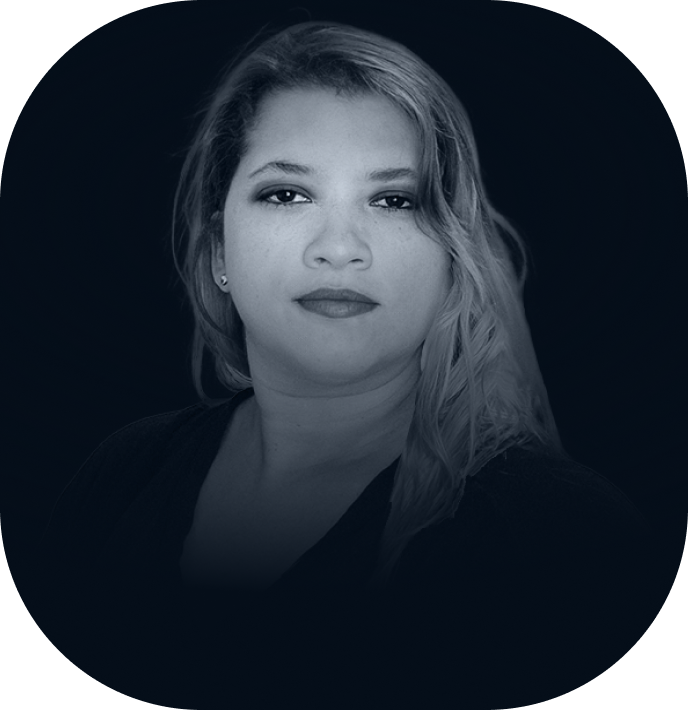
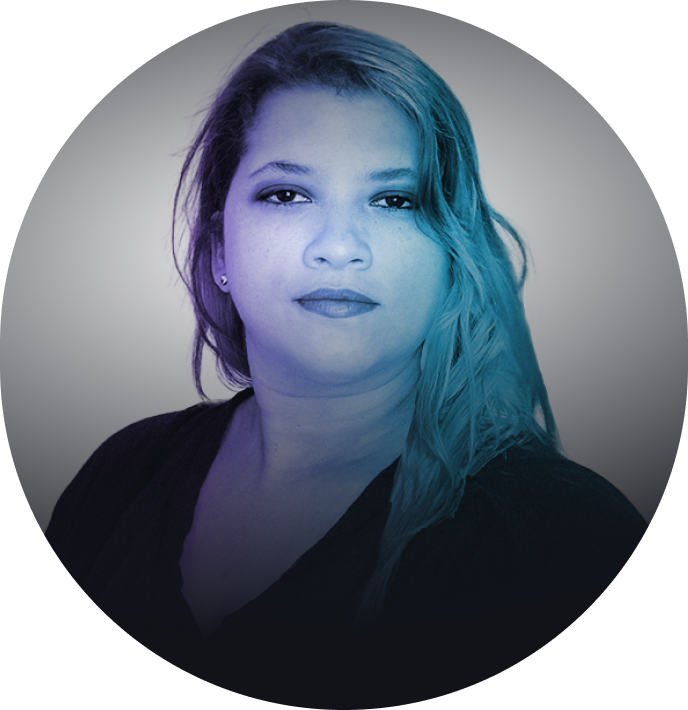
fix style and change font

diff --git a/src/components/HeroSection/styles.js b/src/components/HeroSection/styles.js
@@ -1,38 +1,35 @@
 // ProfileSection.styles.js
-import styled, {css} from 'styled-components';
+import styled, { css } from "styled-components";
 
 export const Container = styled.div`
-
-
-text-align: center;
+  text-align: center;
   color: #fff;
-  background-color: #050E19;
+  background-color: transparent;
   padding: 0 16px;
   position: relative;
- 
+
   border-radius: 0 0 60px 60px;
   display: flex;
 
-  min-height: 580px;
+
   height: auto;
-  max-height: 792px;
+  max-height: 690px;
 
   @media (min-width: 768px) {
-    height: 90vh;
+    max-height: 80vh;
   }
-
 `;
 
 export const Content = styled.div`
-max-width: 988px;
+  max-width: 988px;
 
   margin: auto;
   justify-content: center;
-  align-items: center;
+  align-items: normal;
   padding: 50px 0;
 `;
 export const Section = styled.div`
- padding: 15px 0;
+  padding: 15px 0;
 `;
 export const SectionDev = styled.div`
   flex: 1;
@@ -43,13 +40,14 @@ export const SectionUX = styled.div`
   text-align: right;
 `;
 
-
 export const Title = styled.h1`
-
-font-size: clamp(48px, 5vw + 1rem, 128px);
-font-weight: 600;
+  font-size: clamp(48px, 5vw + 1rem, 128px);
+  font-weight: 600;
   margin: 0;
-
+  background: linear-gradient(268deg, #24A1CA 2.38%, #8764D4 98.75%);
+background-clip: text;
+-webkit-background-clip: text;
+-webkit-text-fill-color: transparent;
 `;
 
 export const Subtitle = styled.p`
@@ -64,22 +62,19 @@ export const SkillsList = styled.ul`
   padding: 0;
   color: #888;
   font-size: 1em;
-
-
 `;
 
 export const ProfileImage = styled.img`
-  width: 240px;
+  max-width: 240px;
   height: auto;
   border-radius: 10%;
-margin: 0 auto;
+  margin: 0 auto;
   margin-bottom: 20px;
 
   @media (min-width: 768px) {
     width: 280px;
-  height: auto;
+    height: auto;
   }
-
 `;
 
 export const SocialIcons = styled.div`
@@ -89,15 +84,13 @@ export const SocialIcons = styled.div`
   margin-top: 20px;
 
   .icon-gh {
+    font-size: 2em;
 
-font-size: 2em;
-
-border-radius: 20px;
-color: #fff;
-cursor: pointer;
-}
+    border-radius: 20px;
+    color: #fff;
+    cursor: pointer;
+  }
   .icon {
-
     font-size: 2em;
     padding: 7px 0;
     border-radius: 16px;
@@ -108,9 +101,8 @@ cursor: pointer;
 
 export const Description = styled.p`
   margin-top: 20px;
-  color: #555;
+  color: #999;
   max-width: 400px;
   font-size: 0.9em;
   line-height: 1.4;
 `;
-

diff --git a/src/index.css b/src/index.css
@@ -3,12 +3,24 @@
 @tailwind components;
 @tailwind utilities;
 
-@import url('https://fonts.googleapis.com/css2?family=Birthstone&family=Nunito:ital,wght@0,200..1000;1,200..1000&display=swap');
+
+@import url('https://fonts.googleapis.com/css2?family=Birthstone&family=Nunito:ital,wght@0,200..1000;1,200..1000&family=Poppins:ital,wght@0,100;0,200;0,300;0,400;0,500;0,600;0,700;0,800;0,900;1,100;1,200;1,300;1,400;1,500;1,600;1,700;1,800;1,900&display=swap');
+
+/* styles.css */
+:root {
+  --primary-color: #24A1CA;
+  --secondary-color: #FF6347;
+  --accent-color: #FFD700;
+  --background-color: #F0F8FF;
+  /* Adicione mais cores conforme necessário */
+}
+
+
 body {
   margin: 0;
-  font-family: "Nunito", sans-serif !important;
+  font-family: "Poppins", sans-serif !important;
   font-optical-sizing: auto;
-  background-color: #F2FBFF;
+  background-color: #111319;
 }
 
 h1 {
@@ -30,5 +42,58 @@ code {
 }
 
 
+.btn-pv{
+  padding: 1rem;
+  color:#fff;
+  font-size:18px;
+  background-color: #24A1CA;
+  border-radius: .4rem;
+display: flex;
+text-align: center;
+justify-content: center;
+max-width: 180px;
+   background: linear-gradient(90deg, #8764D4  20%, #22a9d6 90%); 
+  margin:2rem auto;
+ 
+  transition: all 2s linear 1s;
+}
 
+.btn-pv:hover{
+  transition: all 4s linear 5s;
+  animation: bg-pan-left 2s linear infinite alternate both;
+}
 
+.bg-pan-left {
+	-webkit-animation: bg-pan-left 8s both;
+	        animation: bg-pan-left 8s both;
+}
+
+/* ----------------------------------------------
+ * Generated by Animista on 2024-11-15 19:46:46
+ * Licensed under FreeBSD License.
+ * See http://animista.net/license for more info. 
+ * w: http://animista.net, t: @cssanimista
+ * ---------------------------------------------- */
+
+/**
+ * ----------------------------------------
+ * animation bg-pan-left
+ * ----------------------------------------
+ */
+ @-webkit-keyframes bg-pan-left {
+  0% {
+    background:  #8764D4  ;
+  }
+  100% {
+    background:  #22a9d6 ;
+  }
+}
+@keyframes bg-pan-left {
+  0% {
+    background:  #22a9d6 ;
+  }  
+
+  100% {
+    background:  #8764D4  ;
+  }
+}

diff --git a/src/components/Card/styles.js b/src/components/Card/styles.js
@@ -2,17 +2,23 @@
 import styled from 'styled-components';
 
 export const CardContainer = styled.div`
-  background-color: #fff;
+  /* background-color: transparent; */
   position: relative;
-  border-radius: 2rem;
+
   padding: 15px;
   text-align: center;
-  border: 1px solid #C4CFE050;
+  /* border: 1px solid; */
+  /* border-image-slice: 1;
+  border-image-source: linear-gradient(268deg, #24A1CA 2.38%, #8764D4 98.75%); */
   /* box-shadow: 0 4px 8px rgba(0, 0, 0, 0.1); */
+ 
+
+  background: linear-gradient(#111319, #111319) padding-box,
+              linear-gradient(to right,  #8764D4 , #24A1CA ) border-box;
+  border-radius: 0.5rem;
+  border: 1px solid transparent;
+
   transition: transform 0.2s;
-  /* flex: 1; */
-
-
   &:hover {
     transform: scale(1.05);
   }
@@ -22,6 +28,8 @@ export const CardContainer = styled.div`
  opacity: 0.8;
   padding: 15px;
   text-align: center;
+  background: linear-gradient(#111319, #111319) padding-box,
+  linear-gradient(to right,  #000 , #555 ) border-box;
   border: 1px solid #C4CFE050;
   /* box-shadow: 0 4px 8px rgba(0, 0, 0, 0.1); */
   transition: transform 0.2s;
@@ -34,7 +42,7 @@ export const CardImageContainer = styled.div`
   width: 100%;
   height: 200px;
   position: relative;
-  border-radius: 1.2rem;
+  border-radius: 0.2rem;
   overflow: hidden;
 
   &.isComming::after {
@@ -57,7 +65,7 @@ export const CardImage = styled.img`
   height: 200px;
   object-fit: cover;
   object-position: top center;
-  border-radius: 1.2rem;
+  border-radius: 0.2rem;
   
   position: relative;
 
@@ -65,9 +73,9 @@ export const CardImage = styled.img`
 `;
 
 export const CardTitle = styled.h3`
-  color: #28446B;
+  color: #fbfbfb;
   text-align: left;
-  margin: 16px 0 0 0 ;
+  margin: 16px 0 14px 0 ;
 `;
 
 export const CardDescription = styled.p`

diff --git a/src/components/ProjectPage/styles.js b/src/components/ProjectPage/styles.js
@@ -3,7 +3,7 @@ import styled from 'styled-components';
 
 export const Container = styled.div`
 
-color: #333;
+color:#5A6579;
 
 padding: 16px;
 display: flex;
@@ -30,8 +30,8 @@ export const CardImage = styled.img`
   height: 240px;
   object-fit: cover;
   object-position: top center;
-
-  border-radius: 2rem;
+  padding: 0 8px;
+  border-radius: 0.2rem;
   margin: 18px auto;
 
 `;
@@ -40,12 +40,16 @@ export const CardImage = styled.img`
 export const Button = styled.div`
 display: flex;
 padding: 10px;
+
 cursor: pointer;
 `;
 export const Title = styled.h1`
 line-height: normal;
 font-size: 2rem;
-
+background: linear-gradient(268deg, #24A1CA 2.38%, #8764D4 98.75%);
+background-clip: text;
+-webkit-background-clip: text;
+-webkit-text-fill-color: transparent;
   margin: 0;
 
 `;
@@ -53,10 +57,10 @@ export const Stack = styled.p`
   display: inline-block;         /* Ajusta a largura automaticamente ao conteúdo */
   font-size: 0.8rem;
   line-height: normal;
-  font-weight: 600;
-  color: #888;
+  font-weight: 400;
+  color: #24A1CA ;
   margin: 0;
-  border: 1px solid #000;
+  border: 1px solid #24A1CA ;
   border-radius: 50px;
   padding: 0.2rem 0.8rem;
   margin-right: 0.5rem;
@@ -65,7 +69,7 @@ export const Stack = styled.p`
 export const Description = styled.p`
   font-size: 1.2wv;
   line-height: normal;
-  font-weight: 600;
-  color:#555;
+  font-weight: 300;
+  color:#5A6579;
   margin: 0;
 `;

diff --git a/public/index.html b/public/index.html
@@ -17,7 +17,7 @@
     <link rel="preconnect" href="https://fonts.gstatic.com" crossorigin>
 
     <title>Nanda DevUX | Front-end & Product Designer</title>
-    <link href="https://fonts.googleapis.com/css2?family=Birthstone&family=Nunito:ital,wght@0,200..1000;1,200..1000&display=swap" rel="stylesheet">
+    <link href="https://fonts.googleapis.com/css2?family=Birthstone&family=Nunito:ital,wght@0,200..1000;1,200..1000&family=Poppins:ital,wght@0,100;0,200;0,300;0,400;0,500;0,600;0,700;0,800;0,900;1,100;1,200;1,300;1,400;1,500;1,600;1,700;1,800;1,900&display=swap" rel="stylesheet">
   </head>
   <body>
     <noscript>You need to enable JavaScript to run this app.</noscript>

diff --git a/src/components/PortfolioSection/styles.js b/src/components/PortfolioSection/styles.js
@@ -6,7 +6,7 @@ export const Container = styled.div`
 
 
   text-align: center;
-  color: #333;
+  color: #fbfbfb;
 
   
   position: relative;
@@ -69,4 +69,13 @@ export const CardStack = styled.p`
   border-radius: 50px;
   padding: 0.08rem 0.45rem;
   margin-right: 0.5rem;
+`;
+
+
+export const Link = styled.a`
+  margin-top: 20px;
+  color: #555;
+  max-width: 400px;
+  font-size: 0.9em;
+  line-height: 1.4;
 `;

diff --git a/src/components/ProjectPage/index.jsx b/src/components/ProjectPage/index.jsx
@@ -63,7 +63,7 @@ const ProjectPage = () => {
           <CardImage src={project.imageUrl} alt={project.title} />
           </div>
           <div>
-          <Link className="w-full flex  justify-center my-5" to={project.link}   target="_blank" >Preview</Link>
+          <Link className="  btn-pv" to={project.link}   target="_blank" >Live Preview</Link>
           </div>
        
         </Section>

diff --git a/src/components/HeroSection/index.jsx b/src/components/HeroSection/index.jsx
@@ -57,9 +57,10 @@ const HeroSection = () => {
           <Title>UX</Title>
           <Subtitle>Product Designer</Subtitle>
           <SkillsList>
+            <li>Discovery</li>
             <li>Wireframes</li>
             <li>Design System</li>
-            <li>Responsividade</li>
+    
           </SkillsList>
         </SectionUX></>) : 
         (  <>  
